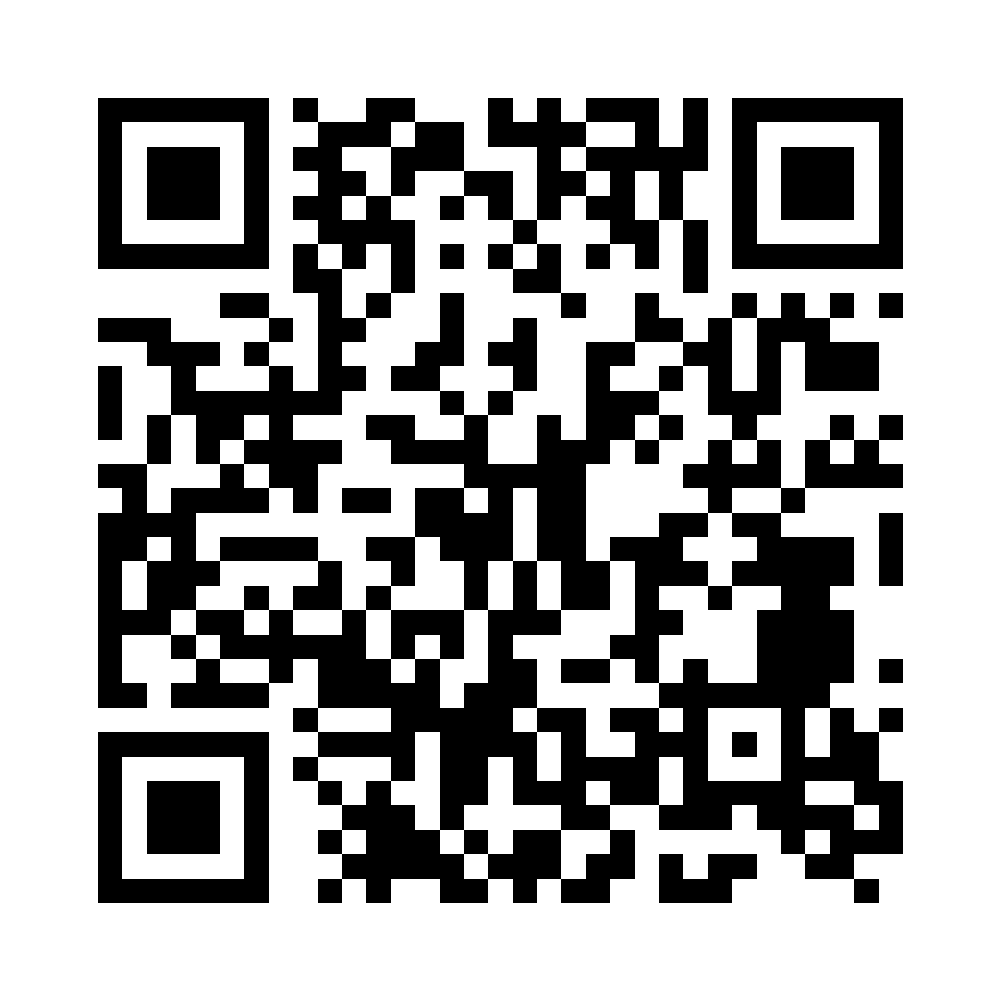
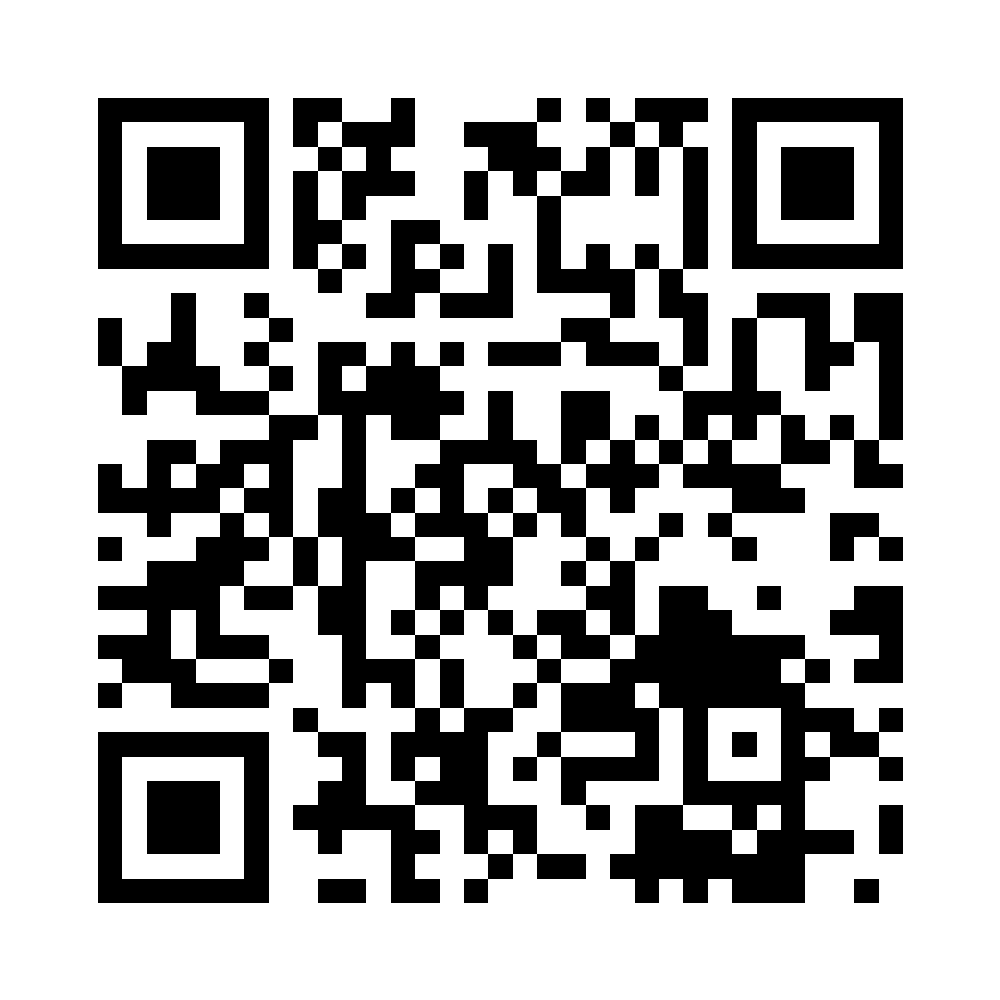
Doi ten mien thanh ancungdihai.vercel.app va tao lai ma QR
- Da them ancungdihai.vercel.app vao Vercel, moi truong Production,
  trang thai Valid Configuration.
- Dia chi cu menu-quan-plum.vercel.app van chay song song, khong hong gi.
  Nhung ma QR va moi thu dua cho khach deu dung dia chi moi.
- Chay lai npm run qr voi dia chi moi, tao lai 3 file trong qr/.
- Da giai ma nguoc file PNG bang jsqr de kiem chung: ra dung
  https://ancungdihai.vercel.app

Doi ten TRUOC khi in QR nen khong phai in lai lan nao.

Da kiem tra ten mien moi: trang khach HTTP 200 hien du 54 mon, trang /admin
tra ve 307 ve /admin/login (lop bao ve van chay dung tren ten mien moi).
Toc do sau khi CDN am: 216-458 ms.

Changed region(s): [[0.093, 0.093, 0.93, 0.93]]

diff --git a/quy-trinh-menu-qr.md b/quy-trinh-menu-qr.md
@@ -328,12 +328,16 @@ Vài lựa chọn khác với kế hoạch gốc, đều có lý do:
 **Địa chỉ chính thức — KHÔNG BAO GIỜ ĐỔI:**
 
 ```
-https://menu-quan-plum.vercel.app
+https://ancungdihai.vercel.app
 ```
+
+Địa chỉ cũ `https://menu-quan-plum.vercel.app` vẫn chạy song song, không hỏng.
+Nhưng **mã QR và mọi thứ đưa cho khách đều dùng địa chỉ mới**.
+Đổi tên ngày 10/09/2026, trước khi in QR nên không phải in lại.
 
 - Kho code: `github.com/AnkhongphaiIT/Menu-quan` (private)
 - Đẩy code lên nhánh `main` là Vercel tự deploy lại, không phải bấm gì.
-- Mã QR: chạy `npm run qr -- https://menu-quan-plum.vercel.app`, ra 3 file trong thư mục `qr/`.
+- Mã QR: chạy `npm run qr -- https://ancungdihai.vercel.app`, ra 3 file trong thư mục `qr/`.
 - Chưa khai báo biến môi trường nào. Tới Giai đoạn 5 phải thêm `NEXT_PUBLIC_SUPABASE_URL`
   và `NEXT_PUBLIC_SUPABASE_ANON_KEY` trong Vercel → Settings → Environment Variables,
   rồi deploy lại thì trang thật mới đọc được dữ liệu.
